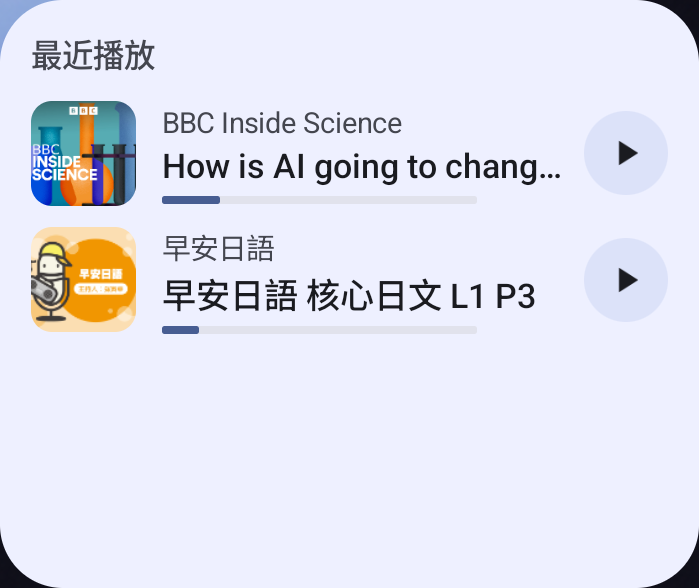
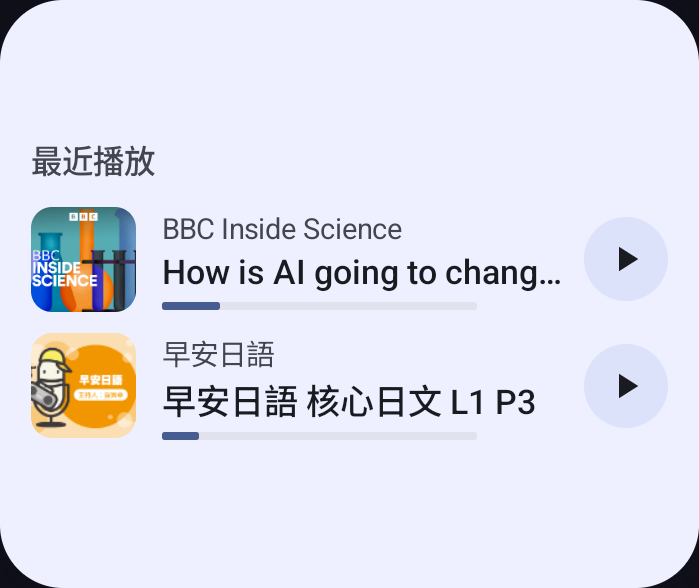
Widgets fill their cells: exact sizing, computed rows, centered content
The Responsive size buckets wasted space at common sizes — a 2-cell-high
widget (~224dp) missed the 250dp "tall" threshold, so 繼續收聽 never showed
its 接下來 list there, 最近播放 hardcoded 2 rows where 3 fit, and 學習紀錄
top-aligned a small block over a half-empty cell. All three now use
SizeMode.Exact: row counts come from the measured height, 學習紀錄 scales
its number (up to 56sp) and stretches the goal bar to the width, and every
layout centers vertically so residual slack splits instead of pooling at
the bottom. 我的節目 already did exact-size grid math. Docs widget
screenshots refreshed to the new layouts.

diff --git a/app/src/main/java/com/example/nerlan/widget/UpNextWidget.kt b/app/src/main/java/com/example/nerlan/widget/UpNextWidget.kt
@@ -2,7 +2,6 @@ package com.example.nerlan.widget
 
 import android.content.Context
 import androidx.compose.runtime.Composable
-import androidx.compose.ui.unit.DpSize
 import androidx.compose.ui.unit.dp
 import androidx.glance.GlanceId
 import androidx.glance.GlanceModifier
@@ -17,6 +16,7 @@ import androidx.glance.appwidget.provideContent
 import androidx.glance.layout.Alignment
 import androidx.glance.layout.Column
 import androidx.glance.layout.Row
+import androidx.glance.layout.fillMaxSize
 import androidx.glance.layout.fillMaxWidth
 import com.example.nerlan.R
 
@@ -26,24 +26,34 @@ import com.example.nerlan.R
  * useful from the first launch.
  */
 class UpNextWidget : GlanceAppWidget() {
-  override val sizeMode = SizeMode.Responsive(
-    setOf(SMALL, WIDE, TALL)
-  )
+  // Exact, not Responsive: the old 250dp "tall" bucket meant a 2-cell-high
+  // widget (~224dp) never got the 接下來 list even though one row fits, so its
+  // bottom half sat empty. Row count now comes from the real height.
+  override val sizeMode = SizeMode.Exact
 
   override suspend fun provideGlance(context: Context, id: GlanceId) {
     val model = WidgetModelBuilder.build(context)
     val heroCover = loadCoverBitmap(context, model.lead?.coverUrl, 160)
-    val rowCovers = loadCovers(context, model.upNext.take(3).map { it.coverUrl }, 96)
+    val rowCovers = loadCovers(context, model.upNext.take(MAX_NEXT).map { it.coverUrl }, 96)
 
     provideContent {
       GlanceTheme {
         WidgetSurface {
           val size = LocalSize.current
+          val lead = model.lead
+          // Inner space after WidgetSurface's 12dp padding; how many queue rows
+          // fit under the hero block decides the layout.
+          val innerHeight = size.height.value - 24f
+          val nextRows = ((innerHeight - HERO_BLOCK_DP - HEADER_DP) / ROW_DP)
+            .toInt().coerceIn(0, MAX_NEXT)
+          val rest =
+            if (lead == null) emptyList()
+            else model.upNext.dropWhile { it.id == lead.id }.take(nextRows)
           when {
-            model.lead == null ->
+            lead == null ->
               WidgetEmptyState("還沒有可以播放的單集\n先下載或收藏一集吧", openTabAction("programs"))
-            size.height >= TALL.height -> Tall(model, heroCover, rowCovers)
-            size.width >= WIDE.width -> Wide(model, heroCover)
+            rest.isNotEmpty() -> Tall(model, heroCover, rowCovers, rest)
+            size.width >= 250.dp -> Wide(model, heroCover)
             else -> Small(model, heroCover)
           }
         }
@@ -54,7 +64,10 @@ class UpNextWidget : GlanceAppWidget() {
   @Composable
   private fun Small(model: WidgetModel, hero: android.graphics.Bitmap?) {
     val lead = model.lead ?: return
-    Column(modifier = GlanceModifier.fillMaxWidth()) {
+    Column(
+      modifier = GlanceModifier.fillMaxSize(),
+      verticalAlignment = Alignment.CenterVertically,
+    ) {
       Row(modifier = GlanceModifier.fillMaxWidth(), verticalAlignment = Alignment.Top) {
         WidgetCover(hero, sizeDp = 48, onClick = openPlayerAction())
         RowSpacer(8)
@@ -75,7 +88,7 @@ class UpNextWidget : GlanceAppWidget() {
   @Composable
   private fun Wide(model: WidgetModel, hero: android.graphics.Bitmap?) {
     val lead = model.lead ?: return
-    Row(modifier = GlanceModifier.fillMaxWidth(), verticalAlignment = Alignment.CenterVertically) {
+    Row(modifier = GlanceModifier.fillMaxSize(), verticalAlignment = Alignment.CenterVertically) {
       WidgetCover(hero, sizeDp = 72, onClick = openPlayerAction())
       RowSpacer(12)
       Column(modifier = GlanceModifier.defaultWeight()) {
@@ -102,11 +115,17 @@ class UpNextWidget : GlanceAppWidget() {
     model: WidgetModel,
     hero: android.graphics.Bitmap?,
     rowCovers: Map<String, android.graphics.Bitmap>,
+    // Pre-sliced to what the measured height fits; on the "nothing loaded"
+    // path the lead came out of upNext itself, hence the dropWhile upstream.
+    rest: List<WidgetEpisode>,
   ) {
     val lead = model.lead ?: return
-    Column(modifier = GlanceModifier.fillMaxWidth()) {
+    Column(
+      modifier = GlanceModifier.fillMaxSize(),
+      verticalAlignment = Alignment.CenterVertically,
+    ) {
       Row(modifier = GlanceModifier.fillMaxWidth(), verticalAlignment = Alignment.CenterVertically) {
-        WidgetCover(hero, sizeDp = 64, onClick = openPlayerAction())
+        WidgetCover(hero, sizeDp = 56, onClick = openPlayerAction())
         RowSpacer(12)
         Column(modifier = GlanceModifier.defaultWeight().clickable(openPlayerAction())) {
           WidgetCaption(lead.programName)
@@ -117,24 +136,20 @@ class UpNextWidget : GlanceAppWidget() {
           }
         }
       }
-      ColSpacer(8)
+      ColSpacer(6)
       Transport(model)
-      ColSpacer(10)
-      // On the "nothing loaded" path the lead came out of upNext itself.
-      val rest = model.upNext.dropWhile { it.id == lead.id }.take(3)
-      if (rest.isNotEmpty()) {
-        WidgetHeader("接下來")
-        rest.forEach { episode ->
-          WidgetListRow(
-            bitmap = rowCovers.cover(episode.coverUrl),
-            title = episode.title,
-            caption = episode.programName,
-            progress = null,
-            openAction = playEpisodeAction(episode.id),
-            buttonRes = R.drawable.ic_widget_play,
-            buttonAction = playEpisodeAction(episode.id),
-          )
-        }
+      ColSpacer(8)
+      WidgetHeader("接下來")
+      rest.forEach { episode ->
+        WidgetListRow(
+          bitmap = rowCovers.cover(episode.coverUrl),
+          title = episode.title,
+          caption = episode.programName,
+          progress = null,
+          openAction = playEpisodeAction(episode.id),
+          buttonRes = R.drawable.ic_widget_play,
+          buttonAction = playEpisodeAction(episode.id),
+        )
       }
     }
   }
@@ -178,9 +193,12 @@ class UpNextWidget : GlanceAppWidget() {
   }
 
   private companion object {
-    val SMALL = DpSize(140.dp, 120.dp)
-    val WIDE = DpSize(250.dp, 120.dp)
-    val TALL = DpSize(250.dp, 250.dp)
+    const val MAX_NEXT = 3
+
+    /** Hero row (56dp cover) + spacers + transport row, in dp. */
+    const val HERO_BLOCK_DP = 110f
+    const val HEADER_DP = 26f
+    const val ROW_DP = 56f
   }
 }
 

diff --git a/app/src/main/java/com/example/nerlan/widget/RecentShowsWidget.kt b/app/src/main/java/com/example/nerlan/widget/RecentShowsWidget.kt
@@ -1,8 +1,6 @@
 package com.example.nerlan.widget
 
 import android.content.Context
-import androidx.compose.ui.unit.DpSize
-import androidx.compose.ui.unit.dp
 import androidx.glance.GlanceId
 import androidx.glance.GlanceModifier
 import androidx.glance.GlanceTheme
@@ -15,6 +13,7 @@ import androidx.glance.appwidget.provideContent
 import androidx.glance.layout.Alignment
 import androidx.glance.layout.Column
 import androidx.glance.layout.Row
+import androidx.glance.layout.fillMaxSize
 import androidx.glance.layout.fillMaxWidth
 import com.example.nerlan.R
 
@@ -28,21 +27,24 @@ import com.example.nerlan.R
  * from the home screen.
  */
 class RecentShowsWidget : GlanceAppWidget() {
-  override val sizeMode = SizeMode.Responsive(setOf(SMALL, WIDE, TALL))
+  // Exact, not Responsive: the coarse buckets left a 2-cell-high widget showing
+  // 2 rows where 3 fit, with the slack pooling as dead space at the bottom.
+  override val sizeMode = SizeMode.Exact
 
   override suspend fun provideGlance(context: Context, id: GlanceId) {
     val model = WidgetModelBuilder.build(context)
-    val covers = loadCovers(context, model.recents.take(5).map { it.coverUrl }, 128)
+    val covers = loadCovers(context, model.recents.take(MAX_ROWS).map { it.coverUrl }, 128)
 
     provideContent {
       GlanceTheme {
         WidgetSurface {
           val size = LocalSize.current
-          val rows = when {
-            size.height >= TALL.height -> 5
-            size.width >= WIDE.width -> 2
-            else -> 1
-          }
+          // Inner space after WidgetSurface's 12dp padding; every row the height
+          // actually fits gets used (a WidgetListRow runs ~56dp).
+          val innerHeight = size.height.value - 24f
+          val rows =
+            if (innerHeight < 150f) 1
+            else ((innerHeight - HEADER_DP) / ROW_DP).toInt().coerceIn(1, MAX_ROWS)
           val shows = model.recents.take(rows)
           when {
             shows.isEmpty() ->
@@ -50,7 +52,10 @@ class RecentShowsWidget : GlanceAppWidget() {
 
             rows == 1 -> {
               val show = shows.first()
-              Column(modifier = GlanceModifier.fillMaxWidth()) {
+              Column(
+                modifier = GlanceModifier.fillMaxSize(),
+                verticalAlignment = Alignment.CenterVertically,
+              ) {
                 Row(modifier = GlanceModifier.fillMaxWidth(), verticalAlignment = Alignment.Top) {
                   WidgetCover(
                     covers.cover(show.coverUrl), sizeDp = 48,
@@ -74,7 +79,10 @@ class RecentShowsWidget : GlanceAppWidget() {
               }
             }
 
-            else -> Column(modifier = GlanceModifier.fillMaxWidth()) {
+            else -> Column(
+              modifier = GlanceModifier.fillMaxSize(),
+              verticalAlignment = Alignment.CenterVertically,
+            ) {
               WidgetHeader("最近播放")
               shows.forEach { show ->
                 WidgetListRow(
@@ -95,9 +103,9 @@ class RecentShowsWidget : GlanceAppWidget() {
   }
 
   private companion object {
-    val SMALL = DpSize(140.dp, 120.dp)
-    val WIDE = DpSize(250.dp, 120.dp)
-    val TALL = DpSize(250.dp, 250.dp)
+    const val MAX_ROWS = 6
+    const val HEADER_DP = 26f
+    const val ROW_DP = 56f
   }
 }
 

diff --git a/app/src/main/java/com/example/nerlan/widget/StatsWidget.kt b/app/src/main/java/com/example/nerlan/widget/StatsWidget.kt
@@ -1,8 +1,6 @@
 package com.example.nerlan.widget
 
 import android.content.Context
-import androidx.compose.ui.unit.DpSize
-import androidx.compose.ui.unit.dp
 import androidx.compose.ui.unit.sp
 import androidx.glance.GlanceId
 import androidx.glance.GlanceModifier
@@ -13,6 +11,7 @@ import androidx.glance.appwidget.GlanceAppWidget
 import androidx.glance.appwidget.GlanceAppWidgetReceiver
 import androidx.glance.appwidget.SizeMode
 import androidx.glance.appwidget.provideContent
+import androidx.glance.layout.Alignment
 import androidx.glance.layout.Column
 import androidx.glance.layout.fillMaxSize
 import androidx.glance.layout.fillMaxWidth
@@ -27,7 +26,10 @@ import androidx.glance.text.TextStyle
  * wants glanceable.
  */
 class StatsWidget : GlanceAppWidget() {
-  override val sizeMode = SizeMode.Responsive(setOf(SMALL, WIDE))
+  // Exact, not Responsive: the number and goal bar scale with the real cell
+  // size, and the block centers vertically, so a big cell reads as a big
+  // stat instead of a small one floating over dead space.
+  override val sizeMode = SizeMode.Exact
 
   override suspend fun provideGlance(context: Context, id: GlanceId) {
     val model = WidgetModelBuilder.build(context)
@@ -35,17 +37,24 @@ class StatsWidget : GlanceAppWidget() {
     provideContent {
       GlanceTheme {
         WidgetSurface {
-          val wide = LocalSize.current.width >= WIDE.width
+          val size = LocalSize.current
+          val innerHeight = size.height.value - 24f
+          val numberSp = when {
+            innerHeight >= 170f -> 56
+            innerHeight >= 120f -> 42
+            else -> 30
+          }
           val stats = model.stats
           Column(
-            modifier = GlanceModifier.fillMaxSize().clickable(openTabAction("programs"))
+            modifier = GlanceModifier.fillMaxSize().clickable(openTabAction("programs")),
+            verticalAlignment = Alignment.CenterVertically,
           ) {
             WidgetCaption("今日學習")
             Text(
               text = "${stats.minutesToday}",
               style = TextStyle(
                 color = GlanceTheme.colors.onSurface,
-                fontSize = if (wide) 34.sp else 30.sp,
+                fontSize = numberSp.sp,
                 fontWeight = FontWeight.Bold,
               ),
             )
@@ -55,7 +64,8 @@ class StatsWidget : GlanceAppWidget() {
             // the app lets the goal be configured.
             WidgetProgressBar(
               (stats.minutesToday / 30f).coerceIn(0f, 1f),
-              widthDp = if (wide) 180 else 110,
+              widthDp = (size.width.value - 28f).toInt(),
+              heightDp = if (innerHeight >= 170f) 6 else 4,
             )
             ColSpacer(6)
             Column(modifier = GlanceModifier.fillMaxWidth()) {
@@ -66,11 +76,6 @@ class StatsWidget : GlanceAppWidget() {
         }
       }
     }
-  }
-
-  private companion object {
-    val SMALL = DpSize(110.dp, 110.dp)
-    val WIDE = DpSize(220.dp, 110.dp)
   }
 }
 
